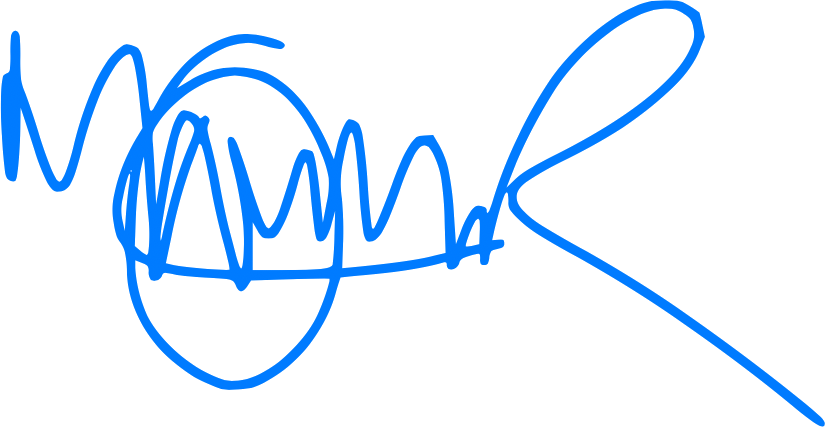
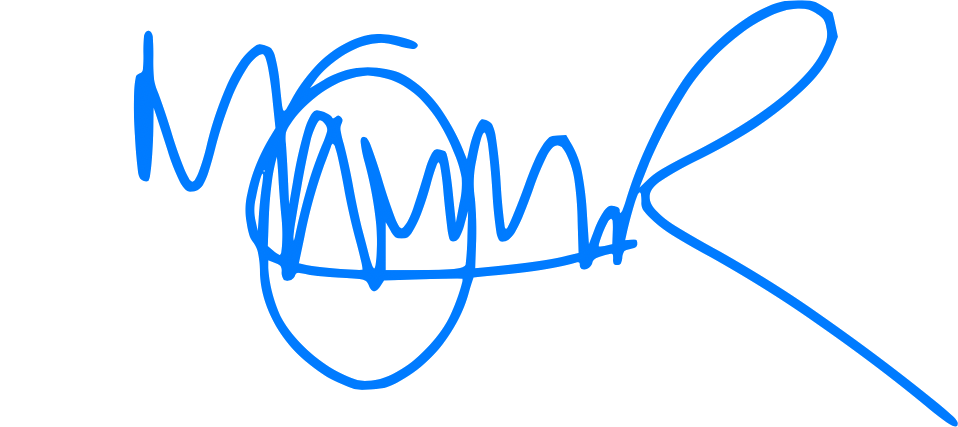
new blog post

Changed region(s): [[0.0, 0.0, 1.0, 1.0]]

diff --git a/templates/blog.html b/templates/blog.html
@@ -1,12 +1,10 @@
 {% extends "base.html" %}
 {% block content %}
-    <ul>
-      {% for post in posts|sort(attribute='date', reverse=True) %}
-      {% if "localhost" in URL %}
-      <li><a href="/{{ post.slug }}.html">{{ post.title }}</a></li>
-      {% else %}
-      <li><a href="/{{ post.slug }}">{{ post.title }}</a></li>
-      {% endif %}
-      {% endfor %}
-    </ul>
+  {% for post in posts|sort(attribute='date', reverse=True) %}
+  {% if "localhost" in URL %}
+  <p class="text-center"><a href="/{{ post.slug }}.html">{{ post.title }}</a></p>
+  {% else %}
+  <p class="text-center"><a href="/{{ post.slug }}">{{ post.title }}</a></p>
+  {% endif %}
+  {% endfor %}
 {% endblock %}

diff --git a/output/blog.html b/output/blog.html
@@ -35,14 +35,11 @@
     </ul>
     <div class="container mt-3">
       <div class="jumbotron">
-    <ul>
-      <li><a href="/blog2">The Second Blog!</a></li>
-      <li><a href="/blog1">Just Testing the Setup</a></li>
-      <li><a href="/quotes2018">Quotes 2018</a></li>
-      <li><a href="/quotes2017">Quotes 2017</a></li>
-      <li><a href="/quotes2016">Quotes 2016</a></li>
-      <li><a href="/quotes2015">Quotes 2015</a></li>
-    </ul>
+  <p class="text-center"><a href="/blog1">Just Testing the Setup</a></p>
+  <p class="text-center"><a href="/quotes2018">Quotes 2018</a></p>
+  <p class="text-center"><a href="/quotes2017">Quotes 2017</a></p>
+  <p class="text-center"><a href="/quotes2016">Quotes 2016</a></p>
+  <p class="text-center"><a href="/quotes2015">Quotes 2015</a></p>
       </div>
     </div>
   </body>

diff --git a/blog.py b/blog.py
@@ -95,4 +95,3 @@ if __name__ == '__main__':
 # jupyter to html
 # submit to python blog aggregator
 # favicons
-# move to maxhumber.com

diff --git a/README.md b/README.md
@@ -12,7 +12,3 @@ Publish blog to github pages:
 make publish
 ```
 
-Generate css highlight file:
-```
-pygmentize -S default -f html -a .codehilite > static/default.css
-```